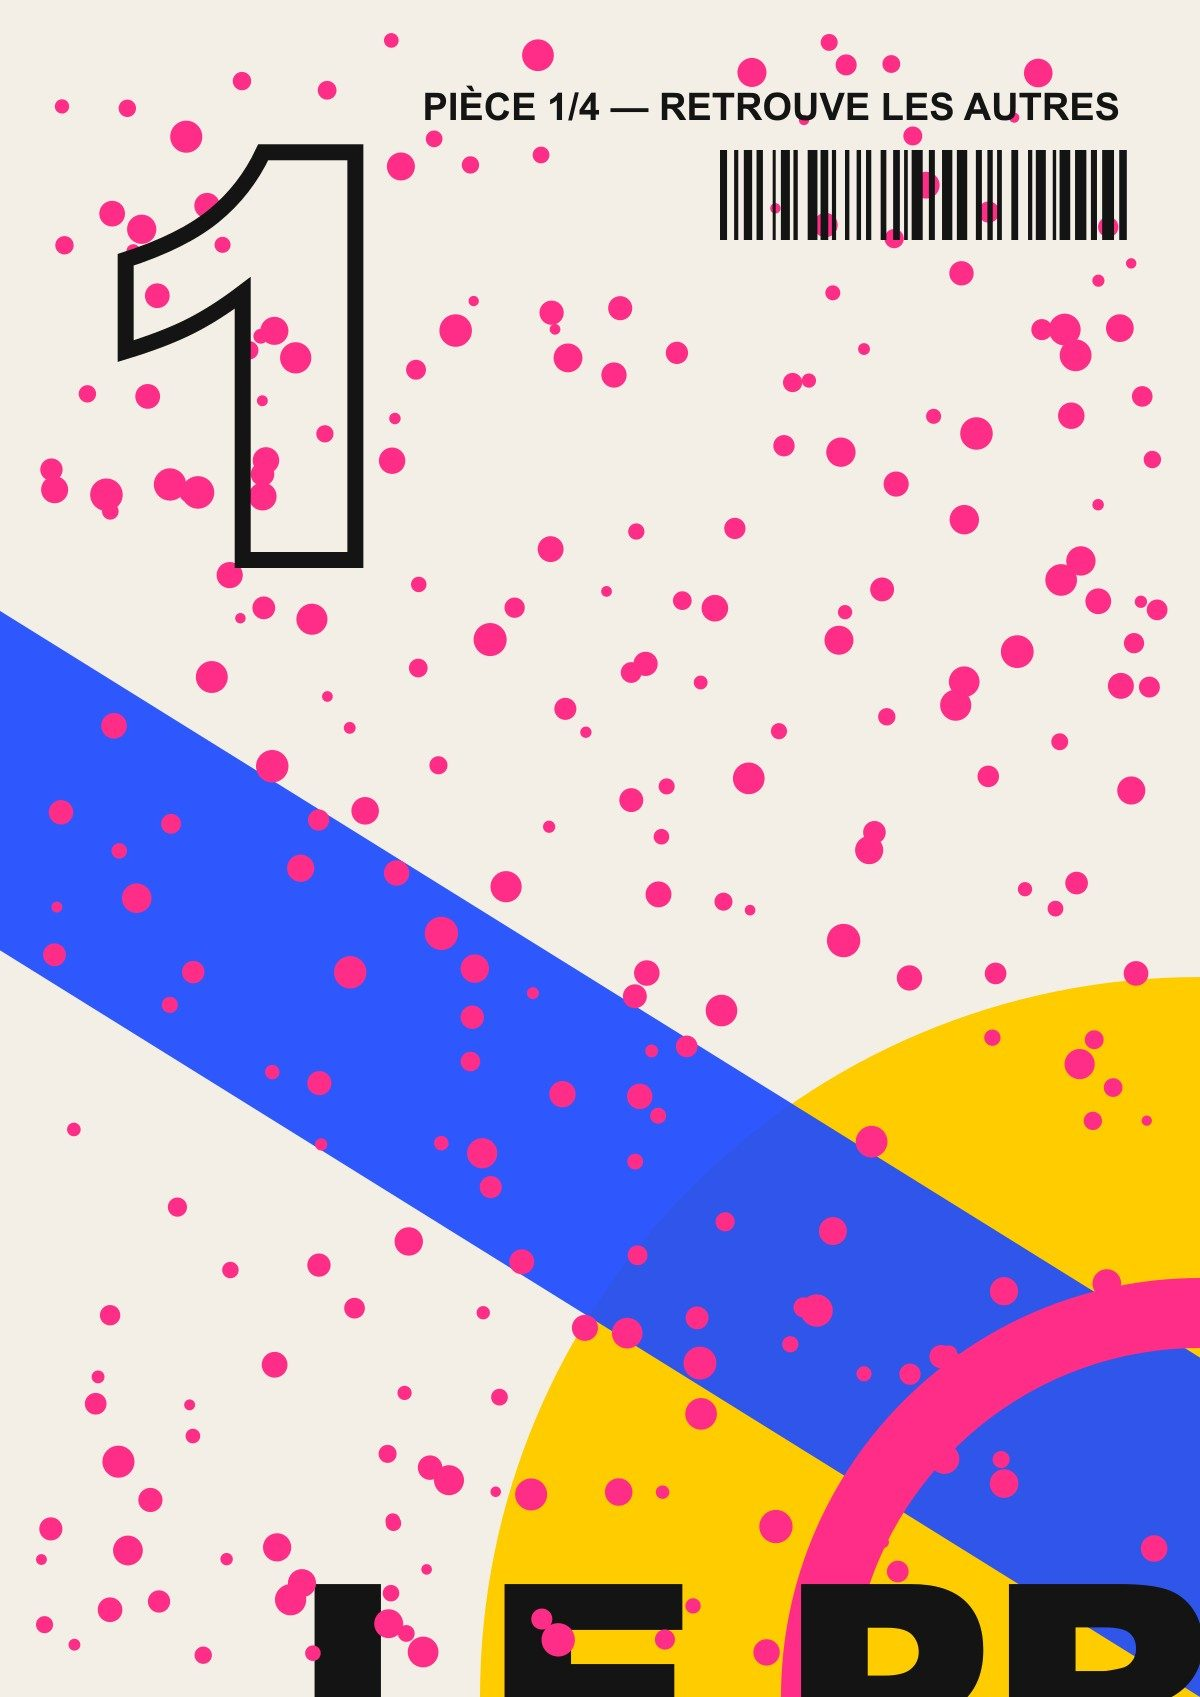
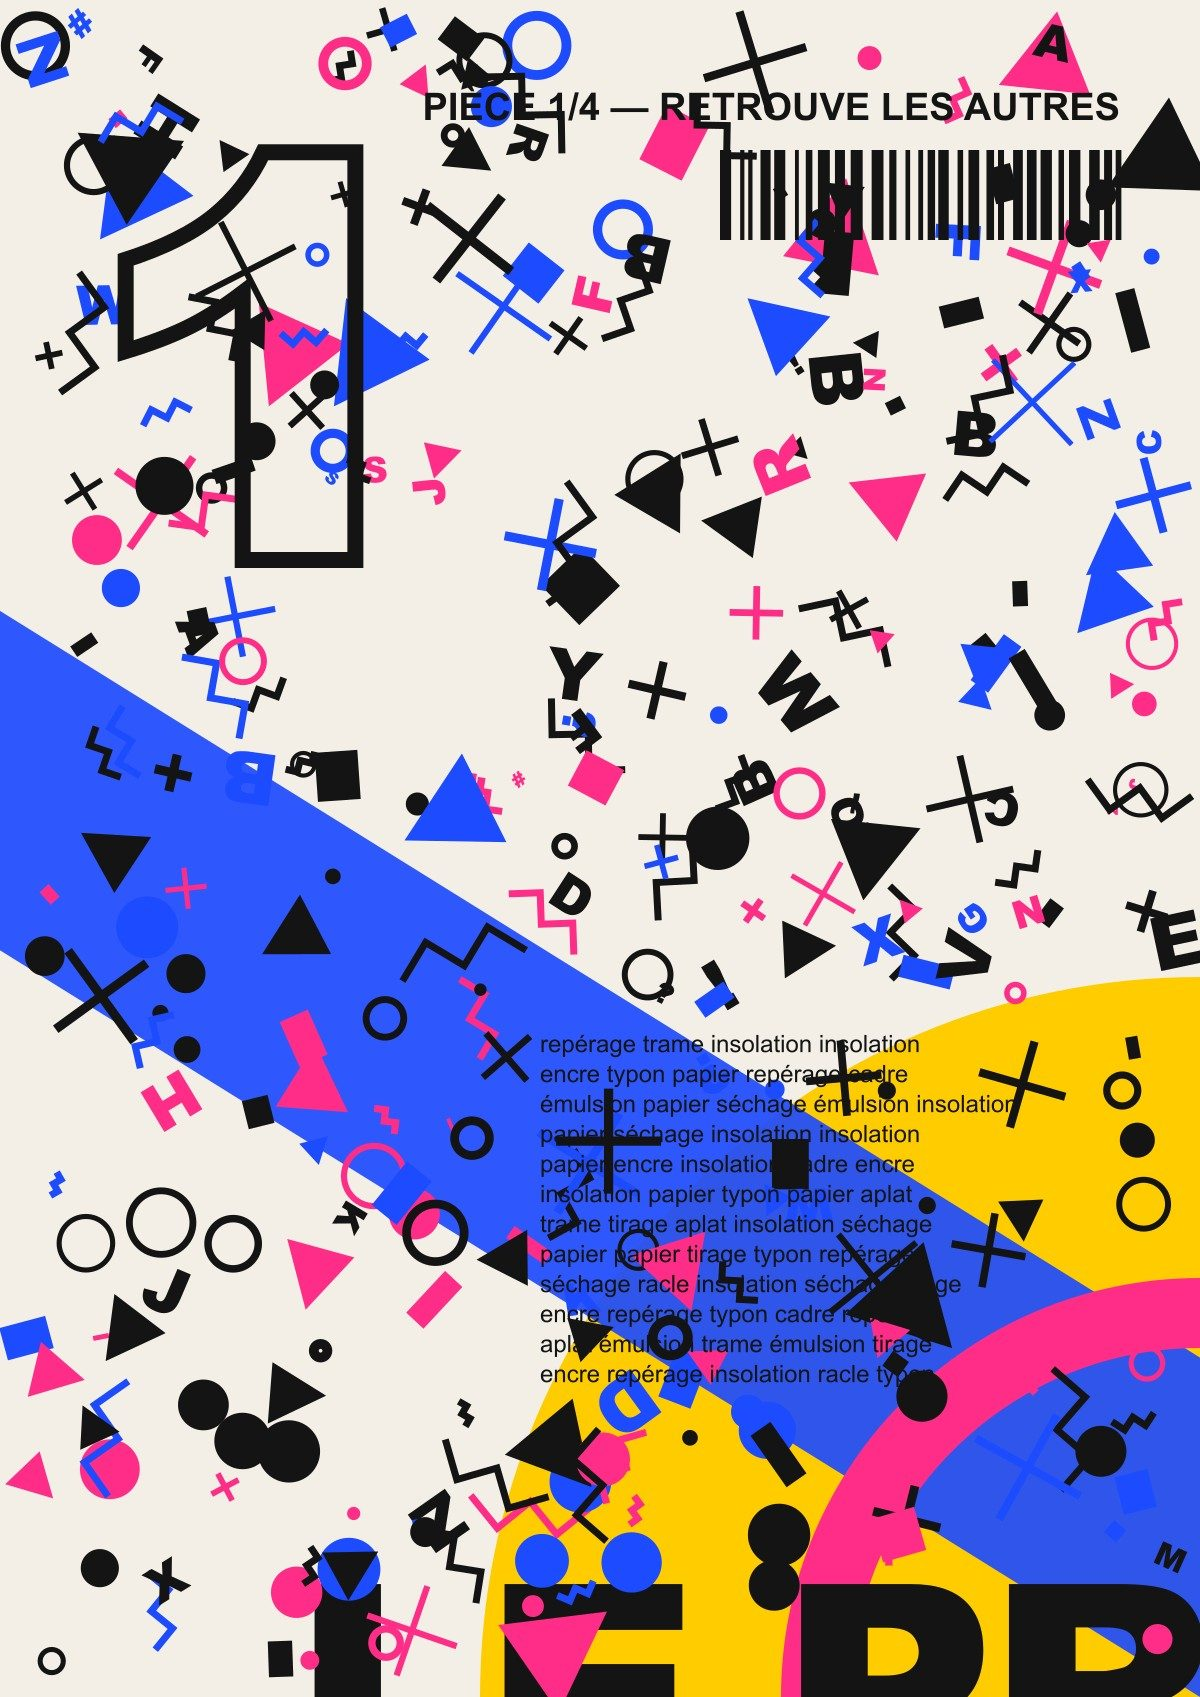
Reconnaissance du puzzle : pièces plus riches + score dans build-targets
Les 4 pièces de démo avaient 2 à 3 fois moins de points d'accroche que
l'affiche démo, faits d'un seul motif répété : détection très lente sur
Android. Pièces redessinées (détails denses et variés) et score de
reconnaissance + alerte de ressemblance ajoutés à npm run targets.

diff --git a/scripts/make-demo-assets.ts b/scripts/make-demo-assets.ts
@@ -164,15 +164,47 @@ const makePuzzle = async () => {
     const y0 = qy * H
     const clip = `clip-path="url(#q${i})"`
     s += `<clipPath id="q${i}"><rect x="${x0}" y="${y0}" width="${W}" height="${H}"/></clipPath>`
+    // Dense, varied, high-contrast details: many different shapes (no single repeated motif),
+    // mostly dark inks, so each piece has plenty of distinctive corners for the tracker.
+    // (A first version with one sparse motif per piece was detected very slowly.)
     let pattern = ''
-    for (let k = 0; k < 260; k++) {
-      const x = x0 + r(40, W - 40)
-      const y = y0 + r(40, H - 40)
-      const size = r(10, 34)
-      if (i === 0) pattern += `<circle cx="${x}" cy="${y}" r="${size / 2}" fill="${P}"/>`
-      else if (i === 1) pattern += `<rect x="${x}" y="${y}" width="${size}" height="${size}" fill="${B}" transform="rotate(${r(0, 90)} ${x} ${y})"/>`
-      else if (i === 2) pattern += `<path d="M${x - size} ${y} H${x + size} M${x} ${y - size} V${y + size}" stroke="${K}" stroke-width="7"/>`
-      else pattern += `<polygon points="${x},${y - size} ${x + size},${y + size} ${x - size},${y + size}" fill="${P}"/>`
+    const inks = [K, K, B, P]
+    for (let k = 0; k < 340; k++) {
+      const x = x0 + r(30, W - 30)
+      const y = y0 + r(30, H - 30)
+      const size = r(12, 64)
+      const rot = r(0, 360)
+      const fill = inks[Math.floor(r(0, inks.length))]
+      const t = `transform="rotate(${rot.toFixed(0)} ${x.toFixed(0)} ${y.toFixed(0)})"`
+      switch (Math.floor(r(0, 7))) {
+        case 0:
+          pattern += `<circle cx="${x}" cy="${y}" r="${size / 2}" fill="${fill}"/>`
+          break
+        case 1:
+          pattern += `<rect x="${x}" y="${y}" width="${size}" height="${size * r(0.3, 1)}" fill="${fill}" ${t}/>`
+          break
+        case 2:
+          pattern += `<polygon points="${x},${y - size} ${x + size * 0.8},${y + size * 0.6} ${x - size * 0.9},${y + size * 0.5}" fill="${fill}" ${t}/>`
+          break
+        case 3:
+          pattern += `<circle cx="${x}" cy="${y}" r="${size / 2}" fill="none" stroke="${fill}" stroke-width="${r(4, 10)}"/>`
+          break
+        case 4:
+          pattern += `<path d="M${x - size} ${y} H${x + size} M${x} ${y - size} V${y + size}" stroke="${fill}" stroke-width="${r(5, 10)}" ${t}/>`
+          break
+        case 5:
+          pattern += `<path d="M${x - size} ${y} l${size / 2} ${-size / 2} l${size / 2} ${size / 2} l${size / 2} ${-size / 2} l${size / 2} ${size / 2}" fill="none" stroke="${fill}" stroke-width="7" ${t}/>`
+          break
+        default:
+          pattern += `<text x="${x}" y="${y}" font-family="${font}" font-size="${size * 1.2}" fill="${fill}" ${t}>${'AZERTYQSDFGHJKLMWXCVBN#%?!'[Math.floor(r(0, 26))]}</text>`
+      }
+    }
+    // A block of small text, different for every piece.
+    const words = ['encre', 'trame', 'racle', 'cadre', 'typon', 'émulsion', 'repérage', 'tirage', 'aplat', 'insolation', 'séchage', 'papier']
+    for (let line = 0; line < 12; line++) {
+      let text = ''
+      while (text.length < 34) text += `${words[Math.floor(r(0, words.length))]} `
+      pattern += `<text x="${x0 + (qx ? 90 : W * 0.45)}" y="${y0 + H * (qy ? 0.12 : 0.62) + line * 30}" font-family="Arial, sans-serif" font-size="24" fill="${K}">${text.trim()}</text>`
     }
     s += `<g ${clip}>${pattern}</g>`
     // Giant numeral in the outer corner of each piece.

diff --git a/scripts/lib/trackability.ts b/scripts/lib/trackability.ts
@@ -1,0 +1,71 @@
+// Rough "how well will this poster be detected" score, computed on the luminance image the engine
+// uses (always 640 px high). Calibrated on the demo assets: the single demo poster scores ~24 600
+// corners and is detected instantly; a first puzzle version at 7 700–11 000 corners made of one
+// repeated motif was detected very slowly on Android.
+
+import sharp from 'sharp'
+
+export interface Trackability {
+  corners: number
+  contrast: number
+  // Cells of an 8×8 grid with almost no detail.
+  emptyCells: number
+  level: 'bon' | 'moyen' | 'faible'
+  advice: string[]
+}
+
+const GOOD = 18000
+const WEAK = 12000
+
+export const scoreTrackability = async (file: string): Promise<Trackability> => {
+  const {data, info} = await sharp(file).grayscale().raw().toBuffer({resolveWithObject: true})
+  const {width: w, height: h} = info
+  const cells = 8
+  const perCell = new Array(cells * cells).fill(0)
+  let corners = 0
+  let sum = 0
+  let sum2 = 0
+  for (let y = 1; y < h - 1; y++) {
+    for (let x = 1; x < w - 1; x++) {
+      const i = y * w + x
+      sum += data[i]
+      sum2 += data[i] * data[i]
+      const gx = data[i + 1] - data[i - 1]
+      const gy = data[i + w] - data[i - w]
+      if (Math.abs(gx) > 40 && Math.abs(gy) > 40) {
+        corners++
+        perCell[Math.min(cells - 1, Math.floor((y / h) * cells)) * cells + Math.min(cells - 1, Math.floor((x / w) * cells))]++
+      }
+    }
+  }
+  const n = (w - 2) * (h - 2)
+  const mean = sum / n
+  const contrast = Math.sqrt(Math.max(0, sum2 / n - mean * mean))
+  const emptyCells = perCell.filter((c) => c < 15).length
+
+  const advice: string[] = []
+  if (corners < GOOD) advice.push('pas assez de détails nets : ajoute du texte, des contours, des formes variées')
+  if (emptyCells > 12) advice.push(`${emptyCells}/64 zones presque vides : répartis les détails sur toute l'affiche`)
+  if (contrast < 50) advice.push('contraste faible en noir et blanc (le moteur ne voit pas les couleurs) : renforce les foncés')
+  const level = corners >= GOOD && emptyCells <= 12 ? 'bon' : corners >= WEAK ? 'moyen' : 'faible'
+  return {corners, contrast, emptyCells, level, advice}
+}
+
+// Similarity of two luminance images (0 = unrelated, 1 = identical), on small thumbnails.
+export const similarity = async (a: string, b: string): Promise<number> => {
+  const load = async (f: string) =>
+    (await sharp(f).grayscale().resize(48, 64, {fit: 'fill'}).raw().toBuffer()) as Buffer
+  const [x, y] = await Promise.all([load(a), load(b)])
+  const mean = (v: Buffer) => v.reduce((s, n) => s + n, 0) / v.length
+  const mx = mean(x)
+  const my = mean(y)
+  let num = 0
+  let dx = 0
+  let dy = 0
+  for (let i = 0; i < x.length; i++) {
+    num += (x[i] - mx) * (y[i] - my)
+    dx += (x[i] - mx) ** 2
+    dy += (y[i] - my) ** 2
+  }
+  return dx && dy ? Math.max(0, num / Math.sqrt(dx * dy)) : 0
+}

diff --git a/scripts/build-targets.ts b/scripts/build-targets.ts
@@ -21,12 +21,14 @@ import {existsSync, mkdirSync, readdirSync, rmSync, statSync, writeFileSync, rea
 import {basename, extname, join, resolve} from 'node:path'
 import {applyCrop} from '@8thwall/image-target-cli/src/apply.js'
 import {getDefaultCrop} from '@8thwall/image-target-cli/src/crop.js'
+import {scoreTrackability, similarity} from './lib/trackability.ts'
 
 const IMAGE_EXT = new Set(['.png', '.jpg', '.jpeg', '.webp'])
 const MIN_W = 480
 const MIN_H = 640
 const POSTER_MAX = 2048
 const built: string[] = []
+const luminances = new Map<string, string>()
 
 const args = process.argv.slice(2)
 const flag = (name: string) => {
@@ -119,9 +121,17 @@ const buildOne = async (file: string) => {
     if (existsSync(file)) rmSync(file)
   }
   built.push(name)
+  const luminance = join(folder, data.resources.luminanceImage)
+  luminances.set(name, luminance)
 
   const lost = Math.round((1 - (geometry.width * geometry.height) / (width * height)) * 100)
   console.log(`✔ ${name} → ${folder}  (zone trackée : ${100 - lost} % de l'affiche${lost ? `, ${lost} % hors cible` : ''})`)
+
+  // Detection speed depends mostly on the poster itself: warn before it gets printed.
+  const score = await scoreTrackability(luminance)
+  const icon = {bon: '●', moyen: '◐', faible: '○'}[score.level]
+  console.log(`    ${icon} reconnaissance : ${score.level} (${score.corners} points d'accroche, conseillé ≥ 18000)`)
+  score.advice.forEach((a) => console.log(`      ⚠ ${a}`))
 }
 
 const main = async () => {
@@ -139,6 +149,15 @@ const main = async () => {
       await buildOne(file)
     } catch (err) {
       console.error(`✖ ${basename(file)} : ${(err as Error).message}`)
+    }
+  }
+  if (group && built.length > 1) {
+    // Posters of one project that look alike get confused (and slow each other down).
+    for (let i = 0; i < built.length; i++) {
+      for (let j = i + 1; j < built.length; j++) {
+        const sim = await similarity(luminances.get(built[i])!, luminances.get(built[j])!)
+        if (sim > 0.5) console.log(`  ⚠ « ${built[i]} » et « ${built[j]} » se ressemblent trop (${Math.round(sim * 100)} %) : différencie-les davantage`)
+      }
     }
   }
   if (group && built.length) {

diff --git a/posters/README.md b/posters/README.md
@@ -9,7 +9,9 @@ Options :
 - directement dans ce projet : `npm run targets -- posters/prenom-nom.png --into experience/target` ;
 - recadrage personnalisé (zone 3:4 suivie, en pixels) : `--crop haut,gauche,largeur`.
 
-Le script indique quelle part de l'affiche est réellement suivie (le moteur suit une zone 3:4 ; le reste peut quand même porter du contenu).
+Pour chaque affiche, le script donne un **score de reconnaissance** (● bon / ◐ moyen / ○ faible, d'après le nombre de points d'accroche nets dans l'image vue par le moteur) avec des conseils. Une affiche « faible » sera reconnue lentement : fais-la retravailler avant le tirage. En mode `--group`, il signale aussi les affiches qui se ressemblent trop.
+
+Le script indique aussi quelle part de l'affiche est réellement suivie (le moteur suit une zone 3:4 ; le reste peut quand même porter du contenu).
 Les fichiers de ce dossier ne sont pas versionnés (voir `.gitignore`).
 
 ## Projet à plusieurs affiches (puzzle, série…)

diff --git a/README.md b/README.md
@@ -251,6 +251,8 @@ Un même site peut reconnaître **plusieurs affiches** (16 maximum, 8 conseillé
 { "id": "final", "type": "model", "src": "assets/final.glb", "target": "*", "trigger": { "type": "collected" } }
 ```
 
+> **Chaque affiche doit être riche à elle seule** : beaucoup de détails nets et variés (texte, contours, formes différentes), répartis partout, et pas un seul petit motif répété. Les grandes formes partagées entre les pièces d'un puzzle doivent rester minoritaires. Sinon la reconnaissance devient très lente. `npm run targets` donne un score pour chaque affiche.
+
 > La collection est enregistrée **dans le navigateur du téléphone** : un autre téléphone, un autre navigateur ou la navigation privée repartent de zéro.
 
 ---
